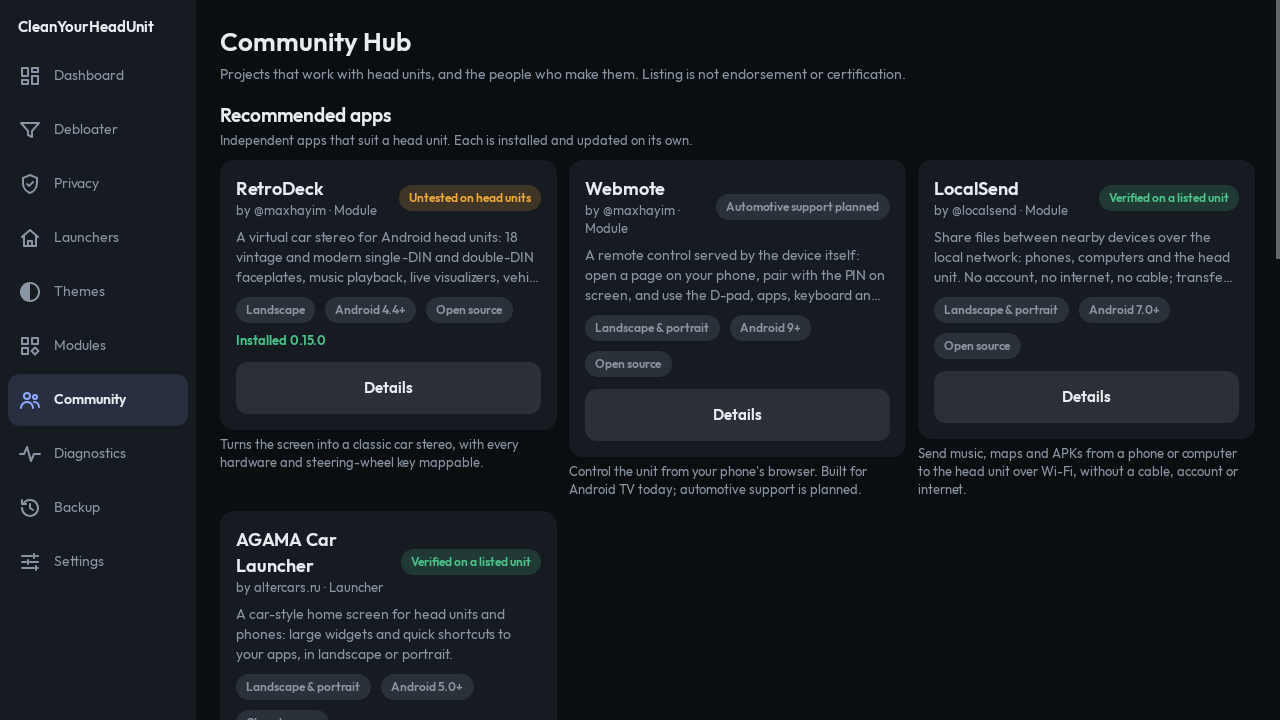
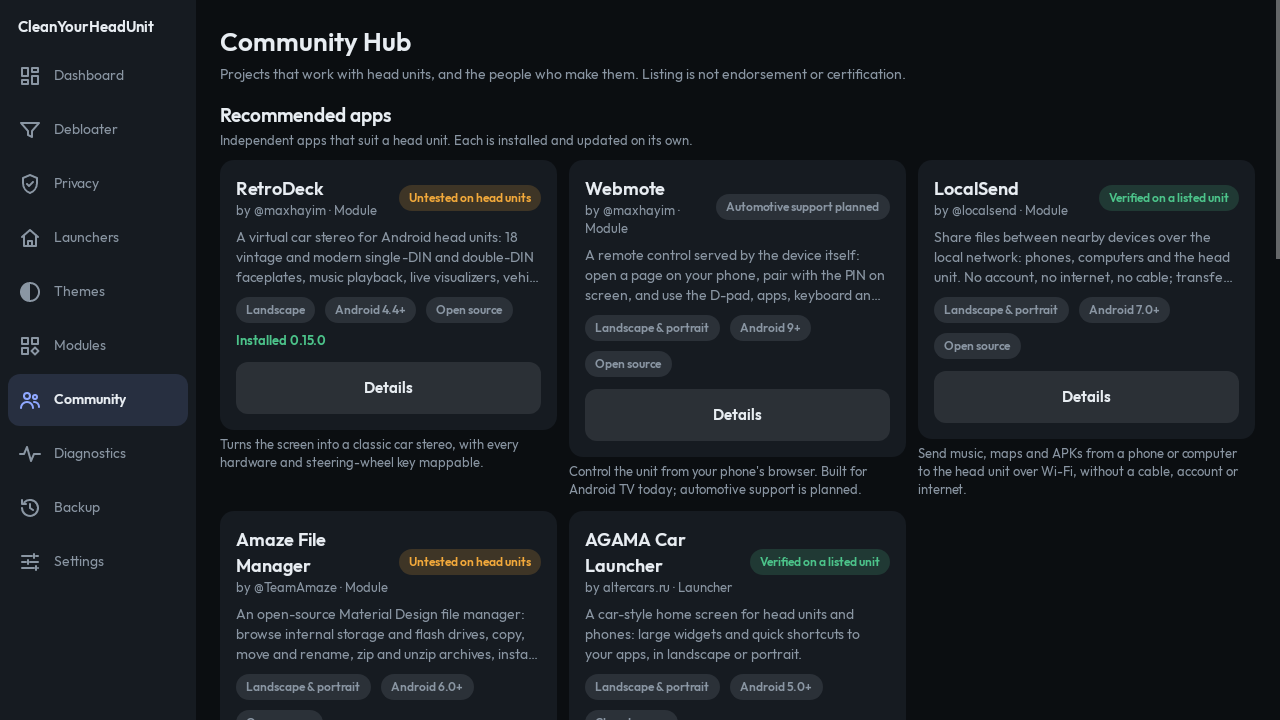
CleanYourHeadUnit 0.3.1 and Companion 0.2.0: ADB console, phone pairing, Amaze File Manager

Changed region(s): [[0.1875, 0.7333, 0.7188, 1.0]]

diff --git a/tests/test_cyhu.py b/tests/test_cyhu.py
@@ -326,7 +326,7 @@ class TestCatalog(unittest.TestCase):
 
     def test_recommended_apps(self):
         rec = [r["id"] for r in data.catalog()["recommended"]]
-        self.assertEqual(rec, ["retrodeck", "webmote", "localsend", "agama-car-launcher"])
+        self.assertEqual(rec, ["retrodeck", "webmote", "localsend", "amaze-file-manager", "agama-car-launcher"])
         ls = catalog.item("localsend")
         self.assertEqual(ls["install"], "none")          # one APK per processor: links only
         self.assertEqual(ls["package"], "org.localsend.localsend_app")

diff --git a/CHANGELOG.md b/CHANGELOG.md
@@ -2,10 +2,11 @@
 
 All notable changes to this project are listed here. Versions follow [Semantic Versioning](https://semver.org/).
 
-## [Unreleased]
+## [0.3.1] - 2026-11-09 (head-unit app) / companion 0.2.0
 
 ### Added
 
+- **Amaze File Manager** (@TeamAmaze, GPL-3.0) in the Community Hub and the recommended apps: browse storage and flash drives, copy APKs and music, open archives. Android 6.0+; linked to F-Droid, Google Play and its GitHub releases. Not yet reported on a car head unit.
 - **ADB console** in both apps: shell commands over the connection the app already has, with quick buttons (device, disabled apps, Wi-Fi address, memory, storage, recent log), a 30-second limit per command and capped output. A command that would disable, uninstall, hide, suspend or clear a Protected or Unknown app, the Home app or CleanYourHeadUnit asks first. Commands are logged on the device only. Head-unit app: Diagnostics → Direct changes → **ADB console** once connected.
 - **Companion: Android 11+ Wireless debugging.** **Find on this Wi-Fi** lists units announcing Wireless debugging (mDNS); **Pair** with the six-digit code (the phone needs Android 12+), then it connects over TLS by itself. This also reaches Android 11 units, which can't pair with themselves.
 
